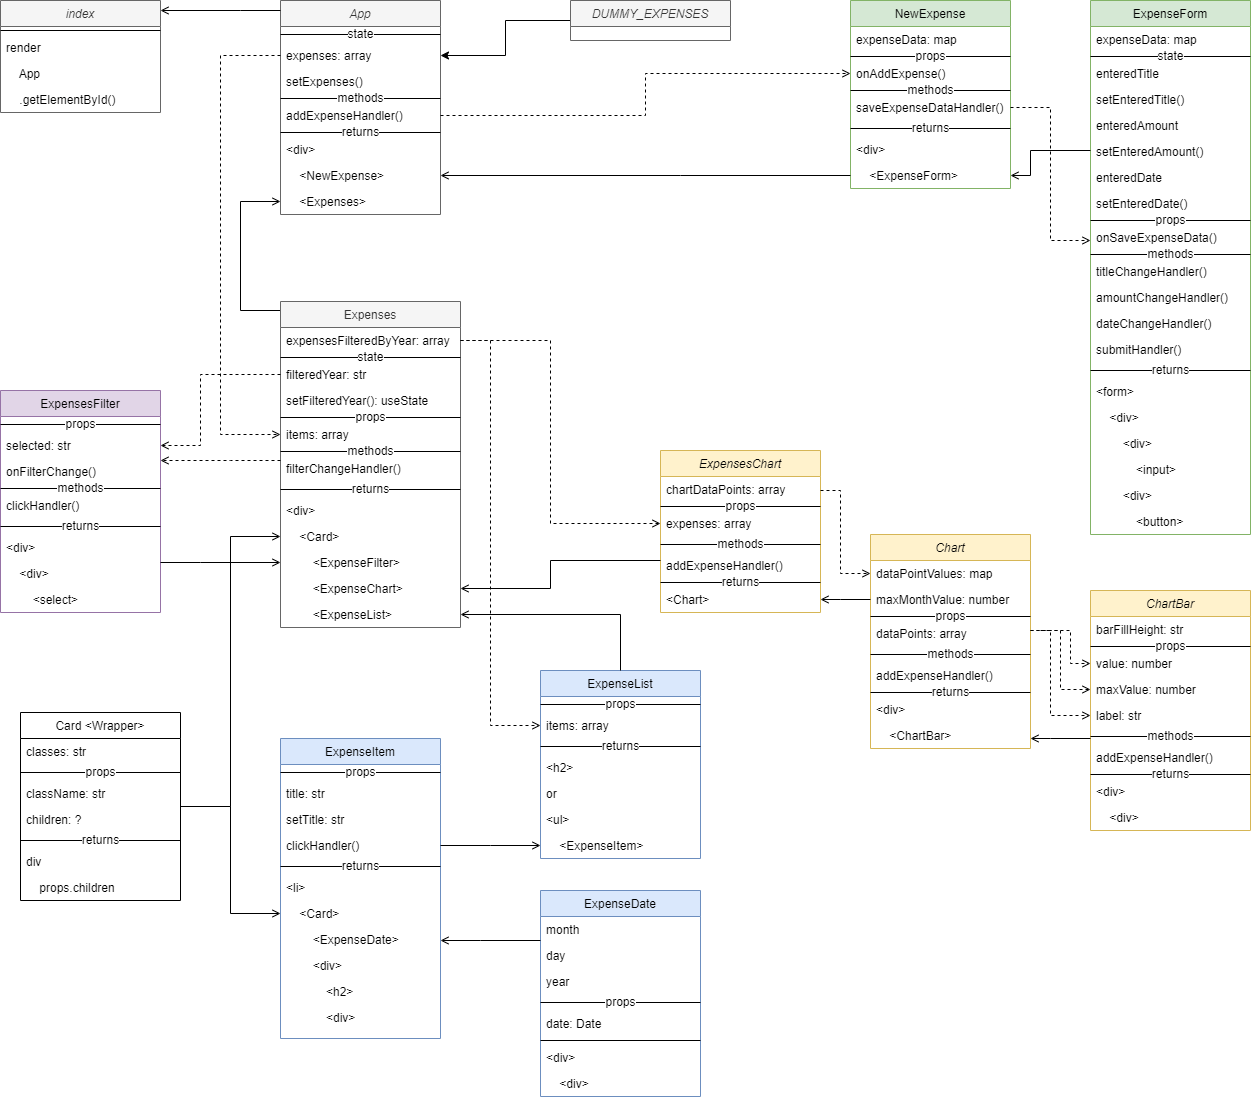
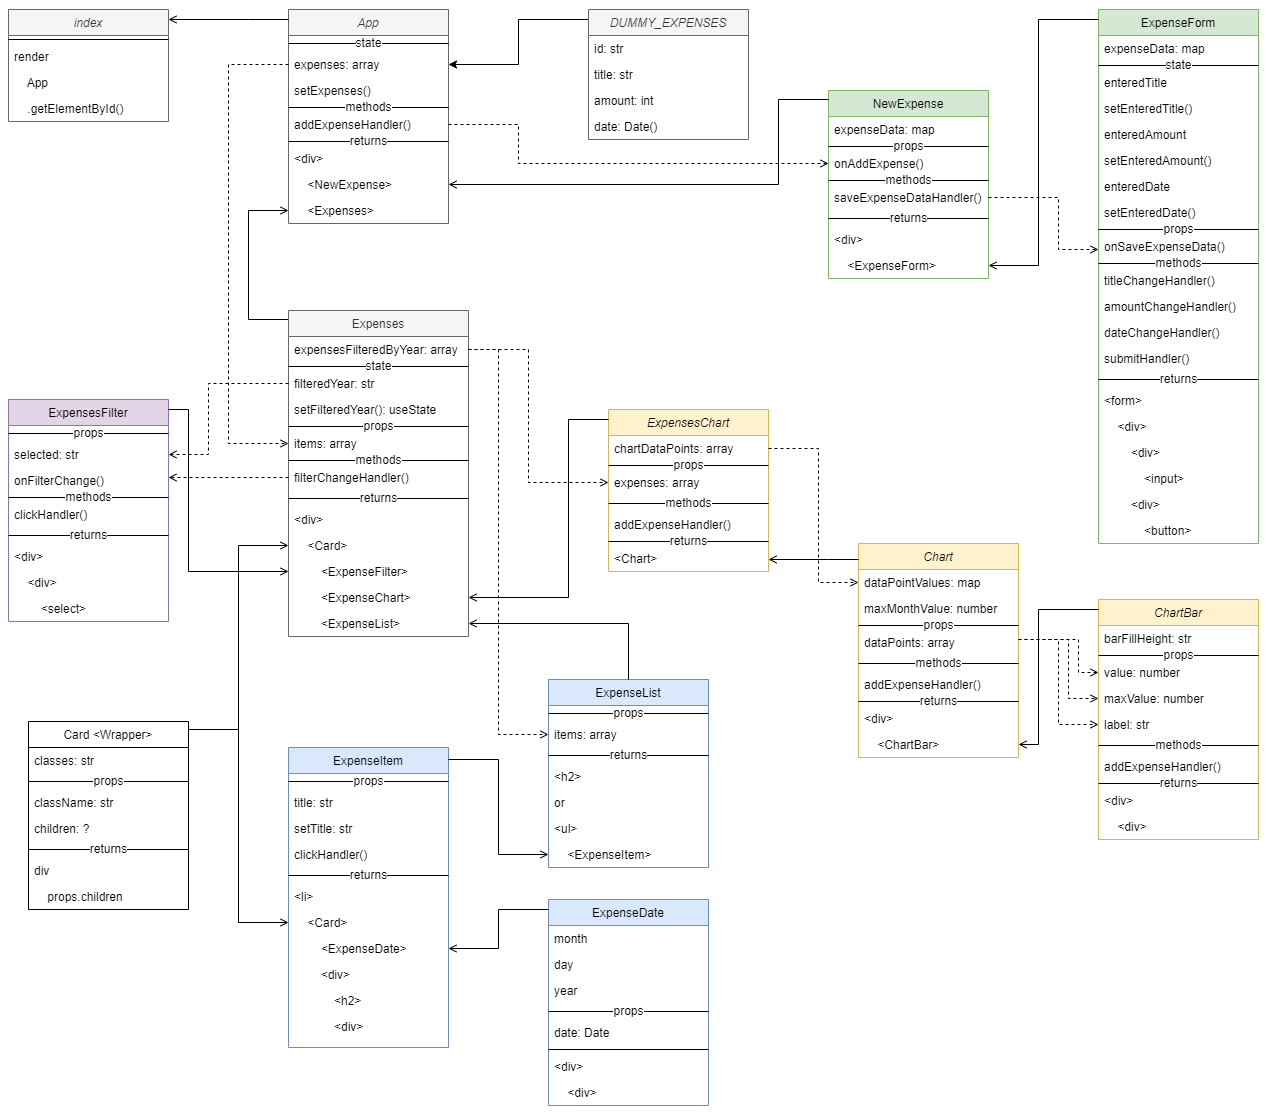
add jsdoc for course section 3 review

diff --git a/src/components/Expenses/Expenses.js b/src/components/Expenses/Expenses.js
@@ -17,8 +17,9 @@ const Expenses = (props) => {
   const [filteredYear, setFilteredYear] = useState('2021')
 
   /**
+   * Function triggered by onFilterChange event.
    * Calls setFilteredYear state function to update filteredYear parameter.
-   * Function is passed to the child component (ExpensesFilter), where it is executed.
+   * It's passed to the child component (ExpensesFilter), where it gets executed.
    * @param newFilteredYear string value passed by child component during the event handling
    */
   const filterChangeHandler = newFilteredYear => {
@@ -28,6 +29,10 @@ const Expenses = (props) => {
   const expensesFilteredByYear = props.items.filter(expense =>
     expense.date.getFullYear().toString() === filteredYear)
 
+  /**
+   * Uses Card as a container component instead of div to apply certain styling to Expenses or ExpenseItem
+   * passes "expenses" parameter to alongside "card" style
+   */
   return (
     <div>
       <Card className="expenses">

diff --git a/src/components/UI/Card.js b/src/components/UI/Card.js
@@ -2,9 +2,22 @@ import React from 'react';
 
 import "./Card.css";
 
+/**
+ * Custom component to apply as a container component instead of div.
+ * Wraps the content it is surrounding and applies additional styling.
+ * @param props
+ * @returns {JSX.Element}
+ * @constructor
+ */
 const Card = (props) => {
+
+   // Adds additional styling from parents className parameter to existing Card class style
   const classes = 'card ' + props.className;
 
+  /**
+   * Children prop refers to content between open and close tags of the custom component.
+   * Hence it returns the content wrapped by Card component
+   */
   return <div className={classes}>{props.children}</div>;
 }
 

diff --git a/src/components/NewExpense/ExpenseForm.js b/src/components/NewExpense/ExpenseForm.js
@@ -31,8 +31,10 @@ const ExpenseForm = (props) => {
    * @param event
    */
   const submitHandler = (event) => {
+    // Prevents page refresh
     event.preventDefault();
 
+    // Builds expense data array
     const expenseData = {
       title: enteredTitle,
       amount: +enteredAmount,

diff --git a/src/components/Expenses/ExpenseItem.js b/src/components/Expenses/ExpenseItem.js
@@ -11,6 +11,10 @@ import './ExpenseItem.css';
  * @constructor
  */
 const ExpenseItem = (props) => {
+
+  /**
+   * Uses Card as a container component instead of div to apply certain styling to Expenses or ExpenseItem
+   */
   return (
     <li>
       <Card className="expense-item">

diff --git a/README.md b/README.md
@@ -1,6 +1,43 @@
 # Expenses In React
 
-Expenses app build using React by following steps from 
-[React - The Complete Guide](https://www.udemy.com/course/react-the-complete-guide-incl-redux/) course.
+## Overview
 
-Introduced in Sections 3-5.
+Displays monthly expenses and chart. Allows to add a new expense.
+
+Expenses app build using React by following steps from 
+[React - The Complete Guide](https://www.udemy.com/course/react-the-complete-guide-incl-redux/) course
+(sections 3-5).
+
+Theory introduction presentation:
+* section 3: [basics working with components](https://github.com/academind/react-complete-guide-code/blob/03-react-basics-working-with-components/slides/slides.pdf)
+* section 4: [state events](https://github.com/academind/react-complete-guide-code/blob/04-react-state-events/slides/slides.pdf)
+
+## Structure
+
+Tree:
+
+```
+App
+  ├─ NewExpense
+  │  └─ ExpenseForm
+  └─ Expenses (Card)
+     ├─ ExpensesFilter
+     ├─ ExpensesChart
+     │  └─ Chart
+     │     └─ ChartBar
+     └─ ExpensesList
+        └─ ExpenseItem (Card)
+           └─ ExpenseDate
+```
+
+----
+
+Diagram:
+
+![App diagram](docs/expensesDiagram.png)
+
+----
+
+Animation:
+
+![animation](docs/expensesAnimation.gif)
